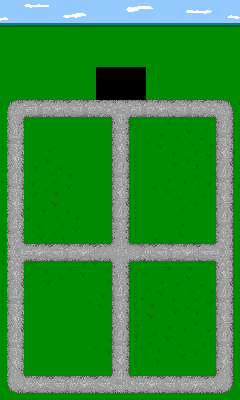
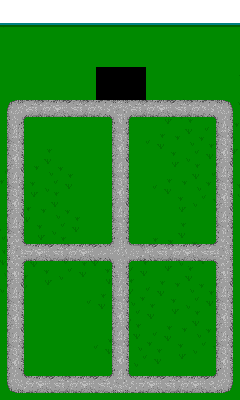
scrolling clouds

Changed region(s): [[0.0, 0.0, 1.0, 0.06]]

diff --git a/src/Game.js b/src/Game.js
@@ -18,6 +18,7 @@ KnugenGame.Game.prototype = {
 
 		// Create garden
 		this.garden = new Garden(this.game, this.physicalGroup);
+		this.clouds = this.add.tileSprite(0, 0, this.game.width, 23, 'clouds');
 
 		// Create Drottningholm
 		this.castle = new Castle(this.game, this.physicalGroup);
@@ -37,6 +38,9 @@ KnugenGame.Game.prototype = {
 	},
 
 	update: function(){
+		// move clouds
+		this.clouds.tilePosition.x -= 0.1;
+
 		this.game.physics.arcade.overlap(this.knugen, this.crowns, this.collectCrown, null, this);
 		this.game.physics.arcade.overlap(this.knugen, this.physicalGroup, this.killKnugen, null, this);
 

diff --git a/src/Preloader.js b/src/Preloader.js
@@ -17,6 +17,7 @@ KnugenGame.Preloader.prototype = {
 		this.load.image('menuBackground', 'assets/Menu.png');
 		this.load.image('gameOverScreen', 'assets/GameOverScreen.png');
 		this.load.image('garden', 'assets/Garden.png');
+		this.load.image('clouds', 'assets/Clouds.png');
 		this.load.image('castle', 'assets/Castle.png');
 		this.load.image('left_gate', 'assets/LeftGate.png');
 		this.load.image('right_gate', 'assets/RightGate.png');
